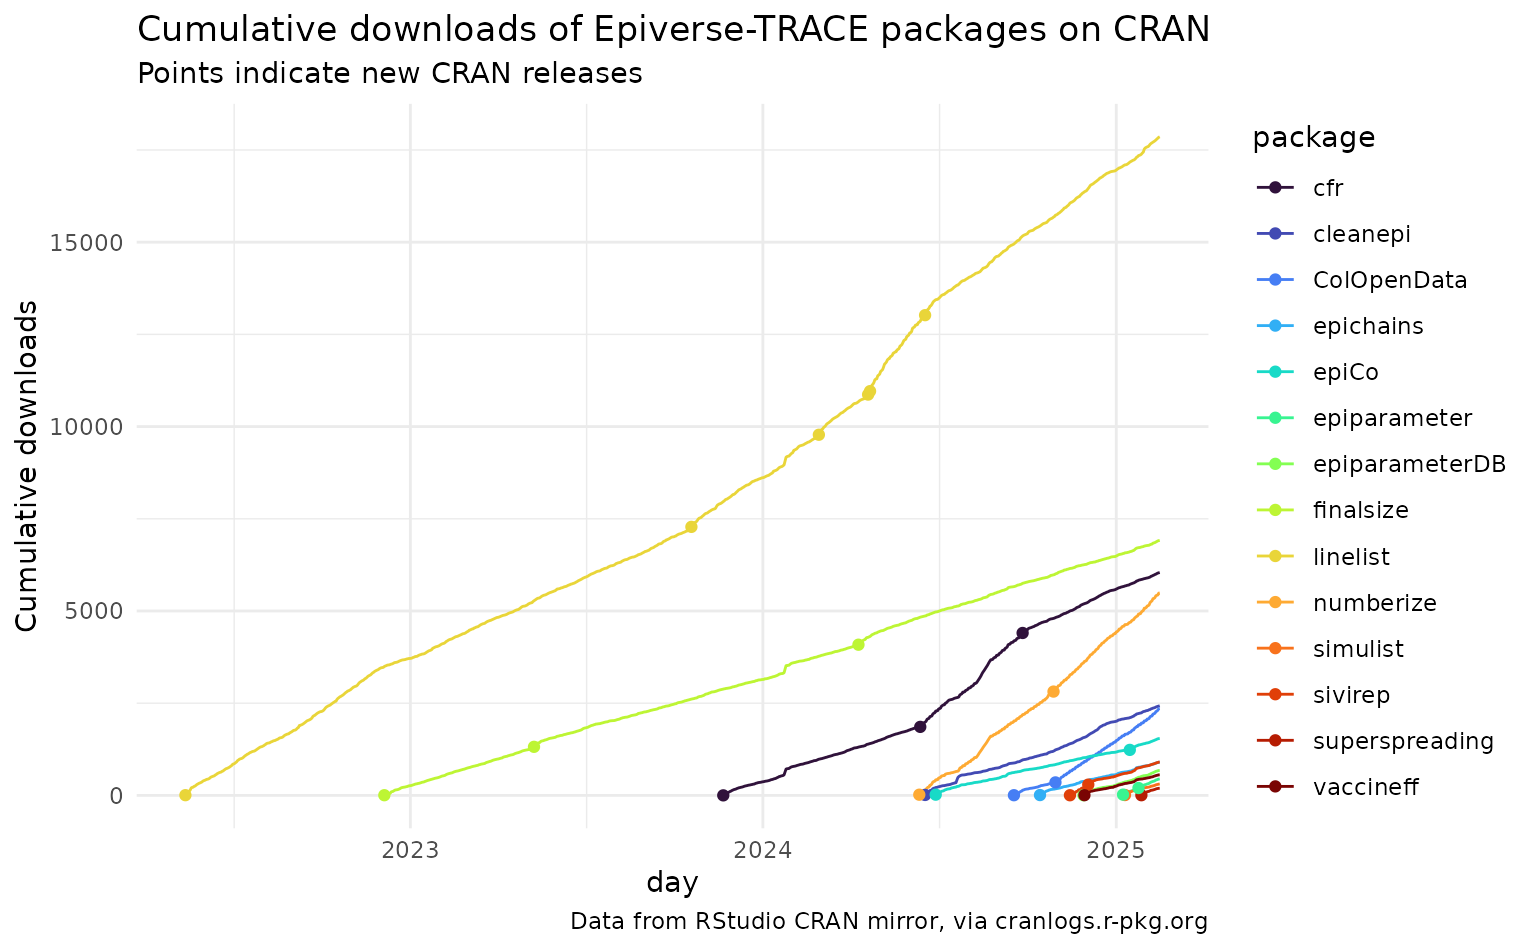
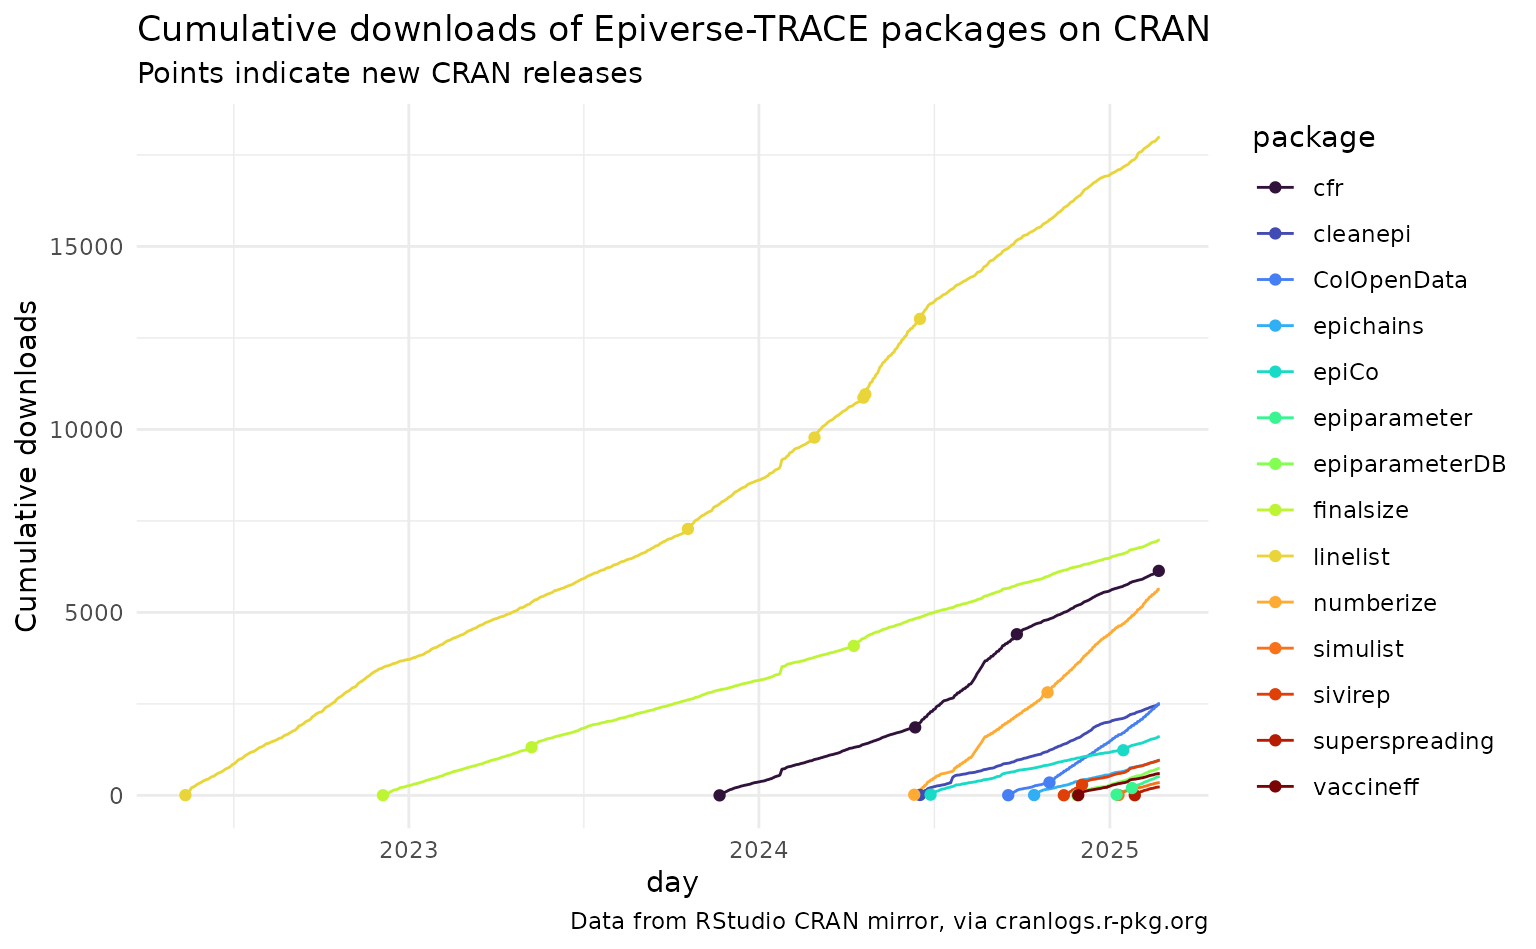
Deploying to gh-pages from @ epiverse-trace/etstats@2a6ce32beef6e9f64e67de6dd34fb1697b21b7d9 🚀

diff --git a/articles/cran-statistics.html b/articles/cran-statistics.html
@@ -74,7 +74,7 @@
 
       <h1>CRAN statistics</h1>
             
-            <h4 data-toc-skip class="date">2025-02-17</h4>
+            <h4 data-toc-skip class="date">2025-02-24</h4>
       
       <small class="dont-index">Source: <a href="https://github.com/epiverse-trace/etstats/blob/main/vignettes/cran-statistics.Rmd" class="external-link"><code>vignettes/cran-statistics.Rmd</code></a></small>
       <div class="d-none name"><code>cran-statistics.Rmd</code></div>
@@ -84,28 +84,28 @@
     
 <p>We currently have 14 Epiverse-TRACE packages on CRAN:</p>
 <ul>
-<li><a href="https://cran.r-project.org/package=ColOpenData" class="external-link">cfr</a></li>
-<li><a href="https://cran.r-project.org/package=finalsize" class="external-link">cleanepi</a></li>
-<li><a href="https://cran.r-project.org/package=simulist" class="external-link">ColOpenData</a></li>
-<li><a href="https://cran.r-project.org/package=cleanepi" class="external-link">epichains</a></li>
-<li><a href="https://cran.r-project.org/package=cfr" class="external-link">epiCo</a></li>
-<li><a href="https://cran.r-project.org/package=sivirep" class="external-link">epiparameter</a></li>
-<li><a href="https://cran.r-project.org/package=epiparameterDB" class="external-link">epiparameterDB</a></li>
-<li><a href="https://cran.r-project.org/package=epichains" class="external-link">finalsize</a></li>
-<li><a href="https://cran.r-project.org/package=superspreading" class="external-link">linelist</a></li>
-<li><a href="https://cran.r-project.org/package=epiparameter" class="external-link">numberize</a></li>
-<li><a href="https://cran.r-project.org/package=epiCo" class="external-link">simulist</a></li>
-<li><a href="https://cran.r-project.org/package=linelist" class="external-link">sivirep</a></li>
+<li><a href="https://cran.r-project.org/package=linelist" class="external-link">cfr</a></li>
+<li><a href="https://cran.r-project.org/package=simulist" class="external-link">cleanepi</a></li>
+<li><a href="https://cran.r-project.org/package=cfr" class="external-link">ColOpenData</a></li>
+<li><a href="https://cran.r-project.org/package=ColOpenData" class="external-link">epichains</a></li>
+<li><a href="https://cran.r-project.org/package=finalsize" class="external-link">epiCo</a></li>
+<li><a href="https://cran.r-project.org/package=cleanepi" class="external-link">epiparameter</a></li>
+<li><a href="https://cran.r-project.org/package=sivirep" class="external-link">epiparameterDB</a></li>
+<li><a href="https://cran.r-project.org/package=epiparameterDB" class="external-link">finalsize</a></li>
+<li><a href="https://cran.r-project.org/package=epichains" class="external-link">linelist</a></li>
+<li><a href="https://cran.r-project.org/package=superspreading" class="external-link">numberize</a></li>
+<li><a href="https://cran.r-project.org/package=epiparameter" class="external-link">simulist</a></li>
+<li><a href="https://cran.r-project.org/package=epiCo" class="external-link">sivirep</a></li>
 <li><a href="https://cran.r-project.org/package=vaccineff" class="external-link">superspreading</a></li>
 <li><a href="https://cran.r-project.org/package=numberize" class="external-link">vaccineff</a></li>
 </ul>
-<p>In total, Epiverse-TRACE packages on CRAN have been downloaded 46630
+<p>In total, Epiverse-TRACE packages on CRAN have been downloaded 47764
 times.</p>
 <p>Below is a visualization of the breakdown of this grand total over
 time.</p>
 <p><img src="cran-statistics_files/figure-html/aggregated-downloads-plot-1.png" alt="Summed cumulative downloads of Epiverse-TRACE on CRAN" width="768"></p>
 <p>And the same breakdown by package:</p>
-<p><img src="cran-statistics_files/figure-html/package-downloads-plot-1.png" alt="Cumulative downloads of Epiverse-TRACE on CRAN (ColOpenData, finalsize, simulist, cleanepi, cfr, sivirep, epiparameterDB, epichains, superspreading, epiparameter, epiCo, linelist, vaccineff, numberize)" width="768"></p>
+<p><img src="cran-statistics_files/figure-html/package-downloads-plot-1.png" alt="Cumulative downloads of Epiverse-TRACE on CRAN (linelist, simulist, cfr, ColOpenData, finalsize, cleanepi, sivirep, epiparameterDB, epichains, superspreading, epiparameter, epiCo, vaccineff, numberize)" width="768"></p>
 <table class="table">
 <thead><tr class="header">
 <th align="left">package</th>
@@ -120,105 +120,105 @@ time.</p>
 <td align="left">260</td>
 <td align="left">2881</td>
 <td align="left">3336</td>
-<td align="right">437</td>
+<td align="right">506</td>
 </tr>
 <tr class="even">
 <td align="left">linelist</td>
 <td align="left">3712</td>
 <td align="left">4898</td>
 <td align="left">8326</td>
-<td align="right">922</td>
+<td align="right">1060</td>
 </tr>
 <tr class="odd">
 <td align="left">cfr</td>
 <td align="left"></td>
 <td align="left">364</td>
 <td align="left">5216</td>
-<td align="right">463</td>
+<td align="right">576</td>
 </tr>
 <tr class="even">
 <td align="left">ColOpenData</td>
 <td align="left"></td>
 <td align="left"></td>
 <td align="left">1445</td>
-<td align="right">913</td>
+<td align="right">1068</td>
 </tr>
 <tr class="odd">
 <td align="left">cleanepi</td>
 <td align="left"></td>
 <td align="left"></td>
 <td align="left">2003</td>
-<td align="right">428</td>
+<td align="right">495</td>
 </tr>
 <tr class="even">
 <td align="left">epiCo</td>
 <td align="left"></td>
 <td align="left"></td>
 <td align="left">1169</td>
-<td align="right">374</td>
+<td align="right">447</td>
 </tr>
 <tr class="odd">
 <td align="left">epichains</td>
 <td align="left"></td>
 <td align="left"></td>
 <td align="left">560</td>
-<td align="right">341</td>
+<td align="right">403</td>
 </tr>
 <tr class="even">
 <td align="left">epiparameterDB</td>
 <td align="left"></td>
 <td align="left"></td>
 <td align="left">269</td>
-<td align="right">408</td>
+<td align="right">473</td>
 </tr>
 <tr class="odd">
 <td align="left">numberize</td>
 <td align="left"></td>
 <td align="left"></td>
 <td align="left">4388</td>
-<td align="right">1102</td>
+<td align="right">1252</td>
 </tr>
 <tr class="even">
 <td align="left">sivirep</td>
 <td align="left"></td>
 <td align="left"></td>
 <td align="left">515</td>
-<td align="right">390</td>
+<td align="right">445</td>
 </tr>
 <tr class="odd">
 <td align="left">vaccineff</td>
 <td align="left"></td>
 <td align="left"></td>
 <td align="left">243</td>
-<td align="right">315</td>
+<td align="right">356</td>
 </tr>
 <tr class="even">
 <td align="left">epiparameter</td>
 <td align="left"></td>
 <td align="left"></td>
 <td align="left"></td>
-<td align="right">448</td>
+<td align="right">519</td>
 </tr>
 <tr class="odd">
 <td align="left">simulist</td>
 <td align="left"></td>
 <td align="left"></td>
 <td align="left"></td>
-<td align="right">310</td>
+<td align="right">349</td>
 </tr>
 <tr class="even">
 <td align="left">superspreading</td>
 <td align="left"></td>
 <td align="left"></td>
 <td align="left"></td>
-<td align="right">194</td>
+<td align="right">230</td>
 </tr>
 <tr class="odd">
 <td align="left">Total</td>
 <td align="left">3972</td>
 <td align="left">8143</td>
 <td align="left">27470</td>
-<td align="right">7045</td>
+<td align="right">8179</td>
 </tr>
 </tbody>
 </table></main>

diff --git a/articles/github-statistics.html b/articles/github-statistics.html
@@ -74,7 +74,7 @@
 
       <h1>GitHub statistics</h1>
             
-            <h4 data-toc-skip class="date">2025-02-17</h4>
+            <h4 data-toc-skip class="date">2025-02-24</h4>
       
       <small class="dont-index">Source: <a href="https://github.com/epiverse-trace/etstats/blob/main/vignettes/github-statistics.Rmd" class="external-link"><code>vignettes/github-statistics.Rmd</code></a></small>
       <div class="d-none name"><code>github-statistics.Rmd</code></div>
@@ -85,7 +85,7 @@
 <div class="section level2">
 <h2 id="github-followers">GitHub followers<a class="anchor" aria-label="anchor" href="#github-followers"></a>
 </h2>
-<p>Our Epiverse-TRACE GitHub organization currently has 187
+<p>Our Epiverse-TRACE GitHub organization currently has 190
 followers.</p>
 </div>
 <div class="section level2">
@@ -132,8 +132,8 @@ stars come from 140 unique users.</p>
 <td align="left">serofoi</td>
 <td align="right">0</td>
 <td align="right">8</td>
-<td align="right">9</td>
-<td align="right">1</td>
+<td align="right">8</td>
+<td align="right">2</td>
 <td align="right">18</td>
 </tr>
 <tr class="even">
@@ -316,8 +316,8 @@ stars come from 140 unique users.</p>
 <td align="left">Total</td>
 <td align="right">24</td>
 <td align="right">89</td>
-<td align="right">107</td>
-<td align="right">3</td>
+<td align="right">106</td>
+<td align="right">4</td>
 <td align="right">223</td>
 </tr>
 </tbody>
